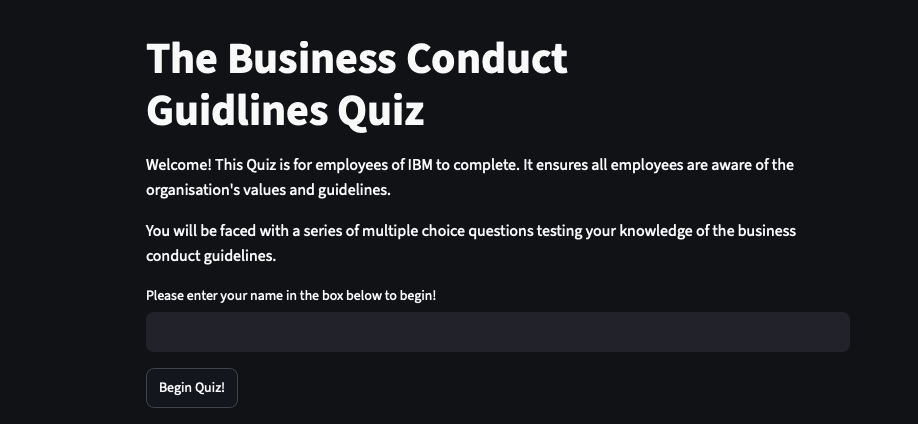
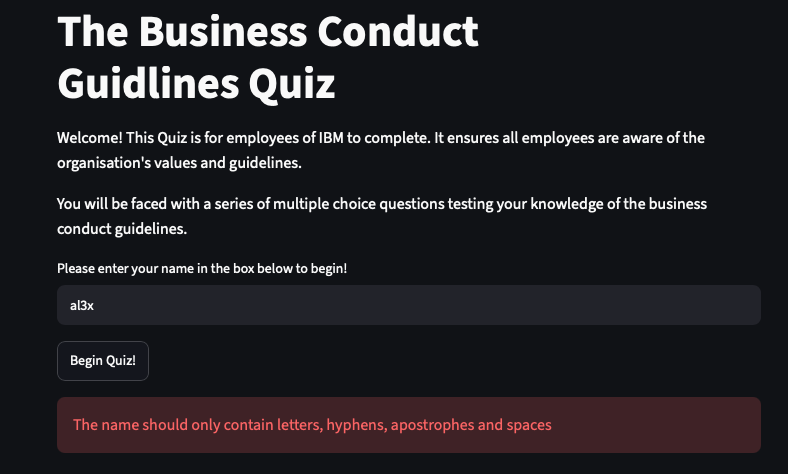
evaluation

diff --git a/storage.py b/storage.py
@@ -14,7 +14,7 @@ def save_result(name: str, score: int) -> None:
 
 def load_results() -> list:
     """
-    This function loads all the previous user names and scores .
+    This function loads all the previous user names and scores.
     `mode="r"` allows these results to be read line by line in a list.
     A `try` and `except` is used with the intention to saved the results into a list of rows, yet the `Except` block prevents the web application from crashing if the CSV file cannot be found.
     """

diff --git a/README.md b/README.md
@@ -65,17 +65,56 @@ I began the development of the project by creating a python virtual environment.
 
 I began by setting up `main.py`, which acted as the central file for my project where I planned to import the rest of the [modules](https://docs.python.org/3/tutorial/modules.html). This allowed me to keep the code neat and structured, with 6 modules making up different sections of the quiz: `main.py`, `welcome_screen.py`, `questions.py`, `quiz_screen.py`, `end_screen.py`, and `storage.py`.
 
+The first file I worked on was `welcome_screen.py`, this was where I had to create a title and add context to the quiz for the user. I also had the challenge of creating a `NameValidator` class, with the purpose of ensuring user names met specfic requirements, otherwise met with an error message such as the one shwon in **Fugyre 8**. My validation requirements had pattern checks which ensured only permitted characters were used, for example no `?` were allowed. The other check was the length of the names, which I ensured using the function below, which allows between 3 and 30 characters for a name.
 
+```
+def length_check(self, name: str) -> bool:
+        """
+        Checks if the name contains between 3 and 30 characters
+        """
+        return 3 <= len(name.strip()) <= 30
+```
+
+Next, I moved onto the `questions.py`.  I created my questions using a parent class `Question` and two child classes: `MultipleChoiceQuestion` and `TrueFalseQuestion` which inherited the methods and attributes from the parent class. This allowed me to reuse the general code for questions into more specific code for the type of question which can be seen below for the `MultipleChoiceQuestion`.
+
+```
+class MultipleChoiceQuestion(Question):
+    """
+    A child class storing multiple choice questions with different options.
+    """
+    def __init__(self, text, options, correct_answer):
+        """
+        Inherits common attributes from the parent Question class.
+        Adds a list of selectable options.
+        """
+        super().__init__(text, correct_answer)
+        self.options = options
+```
+I imported the questions into my `quiz_screen.py` file where I created some logic of scoring and loading questions, which eventually led to `end_screen.py` and `storage.py`. I built a `save_result` function in `Storage.py` which saved an individual’s score and name, and then a `load_results` function which allowed all previous results to be read, I then imported this into `end_screen.py`. This screen shows the user score, an option to download a CSV file of the results and a `Play again` button which reset all the session states to their original values. This allows the user to have a completely fresh retry of the quiz, the code for this section can be seen below.
+
+```
+if st.button("Play again"):
+        st.session_state.question_number = 1
+        st.session_state.score = 0
+        st.session_state.question = None
+        st.session_state.saved = False
+        st.session_state.screen = "welcome"
+        st.rerun()
+
+```
+I imported each module into `main.py`, this approach allowed this central file to be structured and readable, I then focused ensuring smooth navigation of the screens.
+Finally, I completed the automated tests at the end which can be found in the `Testing`section, and then I uploaded my web application to the Streamlit community cloud.
 
 ## Testing
 
 ### Manual Testing
 
-I did manual testing continuously throughout each stage of my development process. This allowed me to ensure each section was fully complete and worked correctly with Streamlit before progressing the project. For example, I would not move onto the `questions.py` module before my manual tests for the `welcome_screen` file were successfully passing.
+I did manual testing throughout each stage of my development process. This checked each section was fully complete and worked correctly with Streamlit before progressing the project. For example, I would not move onto the `questions.py` module before my manual tests for the `welcome_screen.py` file were successfully passing.
 
-My manual tests can be seen in **Figure 5** below, this displays my method for each test, the expected result and whether the tests eventually passed. These were important as they allowed me to observe the web applications behaviour against the intended user navigation I created in the design section. There were often errors at first with each test, which is a key justification for why I decided to not develop any further stages of the quiz before my manual tests passed for the current stage.
+My manual tests can be seen in **Figure 5** below, this displays my method, the expected result and whether the tests eventually passed. These importantly allowed me to observe the web applications behaviour against the intended user navigation I created in the design section. There were often errors at first with each test, a key justification for why I decided to not develop any further stages of the quiz before my manual tests passed for the current stage.
 
 Test Case ID 3, the Screen navigation test, was a slight anomaly. This is because it was repeated each time I added a new module of code to my quiz, ensuring that the GUI continued to display everything in the intended order.
+
 
 ![manual tests](manual_tests.png)  
 **Figure 5:** Table of Manual tests
@@ -83,12 +122,12 @@ Test Case ID 3, the Screen navigation test, was a slight anomaly. This is becaus
 
 ### Automated Unit testing
 
-I then carried out automated unit testing after all my manual tests were completed, as a final check before deploying my web application to the Streamlit community cloud. I decided to use the [Pytest](https://docs.pytest.org/en/stable/)
+I then carried out automated unit testing as a final check before deploying my web application to the Streamlit community cloud. I decided to use the [Pytest](https://docs.pytest.org/en/stable/)
 Framework as it allowed me to write isolated unit tests by creating a virtual environment and then running `pip install pytest`in the terminal. 
 
 I began with a smoke test which can be seen at the top of **Figure 6**, this ensured the pytest framework was functioning correctly. I then went through some and tested some of the key functions and classes, such as the `NameValidator` class, these tests focused on checking the lengths and allowed character types for the user inputs. **Figure 6** shows that two tests failed, this is because of there being 31 characters in one input and an `!` in another input. This is then changed to 30 characters and removing the `!` in **Figure 7 which is why the tests all passed successfully.
 
-The automated testing was important as it allowed for quick checks at the end of my project, ensuring the key functions and classes were consistent, structured and importantly, correct.
+The automated testing importantly allowed for quick checks at the end of my project, ensuring the key functions and classes were consistent, structured and correct. I also set up [Continuous Integration](https://www.atlassian.com/continuous-delivery/continuous-integration), which allowed automated unit tests to run automatically on any future code commits.
 
 
 ![invalid name](validator_fail.png)
@@ -133,3 +172,9 @@ You may download your results locally to [Excel](https://excel.cloud.microsoft/e
 
 ## Evaluation
 
+On reflection, I am pleased with how my [Python](https://docs.python.org/3/) developed web application closely matches to my initial wireframe design of the [GUI](https://www.britannica.com/technology/graphical-user-interface) and user navigation on [Figma](https://www.figma.com). I also found the choosing [Streamlit](https://pypi.org/project/streamlit/) as my method of hosting and deploying the app beneficial, I found the Streamlit documentation easy to follow and implement. It enabled me to quickly check my quiz and conduct manual tests throughout the development process.
+
+However, I do think there are numerous improvements I could have implemented from the start of the project. On reflection I don’t believe I used automated unit testing as effectively as I could have, it would have been more effective to use [Pytest](https://docs.pytest.org/en/stable/) in a [Test-driven development](https://agilealliance.org/glossary/tdd/) style as I built each unit of code.
+Similarly, I did not set up [Continuous Integration](https://www.atlassian.com/continuous-delivery/continuous-integration) until the end of my development process which would have ensured automated testing and high quality code for my early commits to [GitHub](https://github.com).
+
+Overall, I believe this has been a successful project, as the developed quiz web application reflects my initial design and purpose of the quiz and a smooth user experience is provided.
